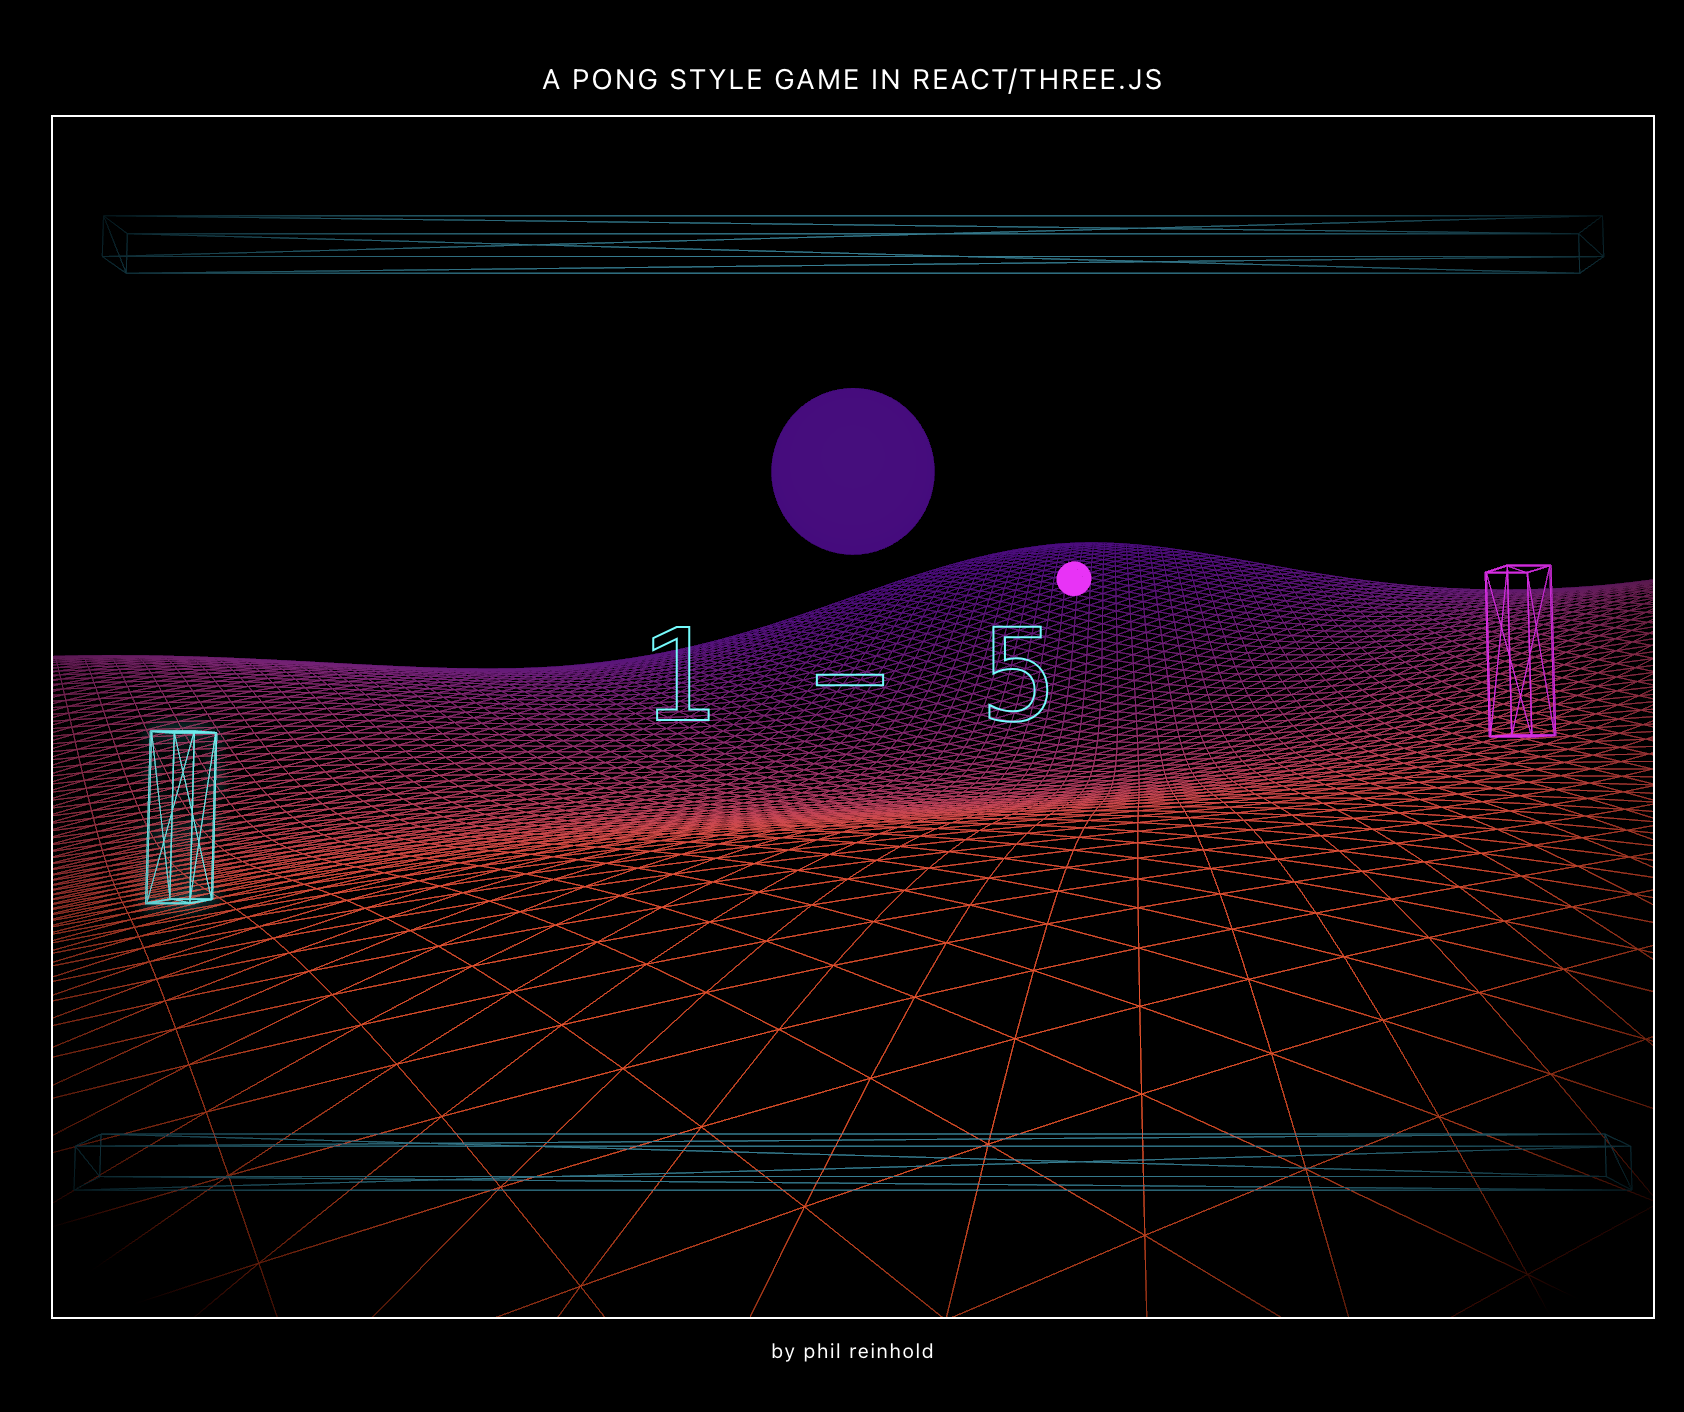
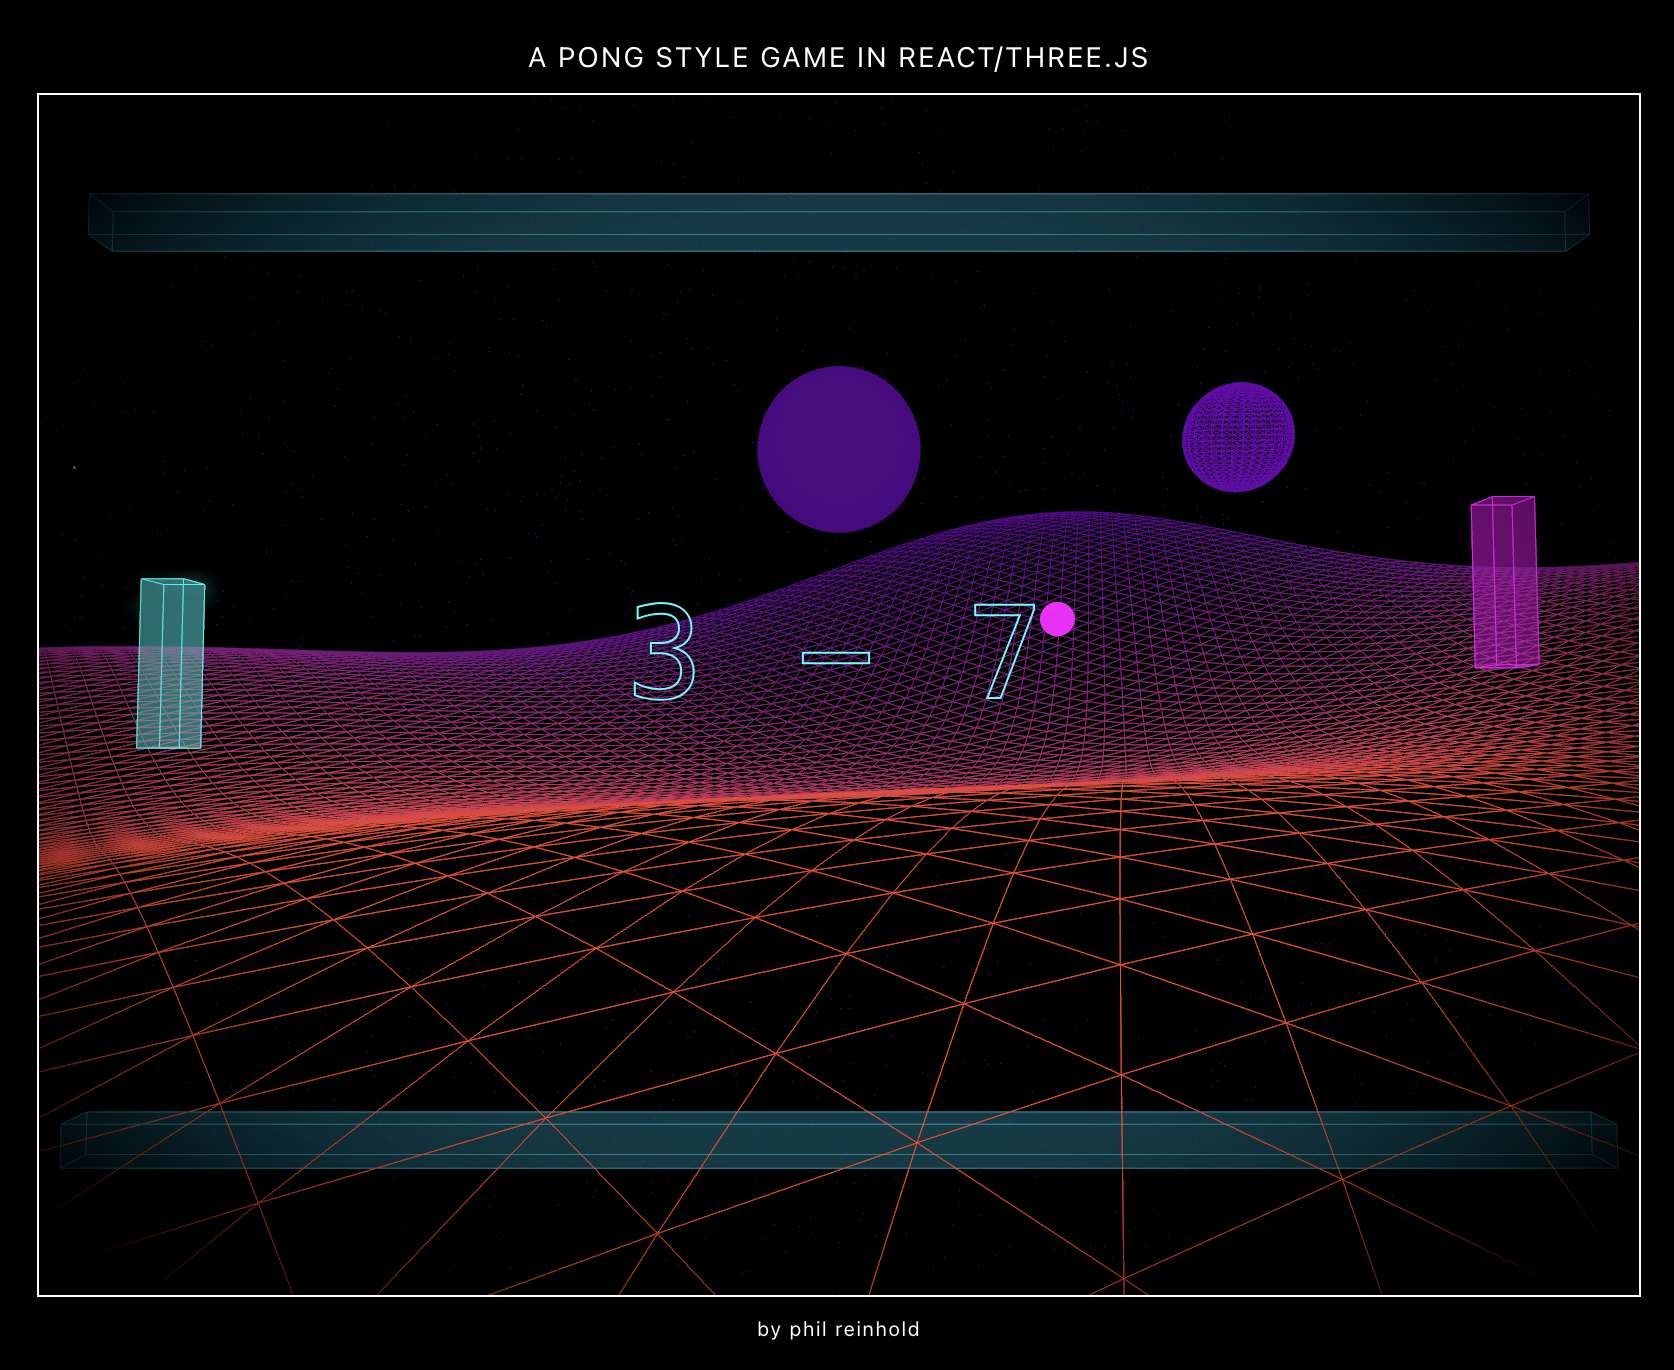
update

diff --git a/react-three-pong/src/App.js b/react-three-pong/src/App.js
@@ -4,16 +4,14 @@ import { PerspectiveCamera, KeyboardControls } from '@react-three/drei';
 import { EffectComposer, Bloom, Vignette } from '@react-three/postprocessing';
 import Paddle from './Paddle';
 import Ball from './Ball';
-import { Terrain, Sun, GameBoundaries, PurpleFog } from './Components';
+import { Terrain, Sun, GameBoundaries, PurpleFog, Stars, OrbitingPlanet } from './Components';
 import GameManager from './GameManager';
 
-// this function keeps the camera responsive to different screen sizes
 function ResponsiveCamera() {
   const { size, camera } = useThree();
   const aspect = size.width / size.height;
 
   useEffect(() => {
-    // u can adjust these values to change the game's aspect ratio
     const gameWidth = 19;
     const gameHeight = 10.5;
 
@@ -27,7 +25,6 @@ function ResponsiveCamera() {
   }, [size, camera, aspect]);
 
   useFrame(() => {
-    // adjust these values to change the camera position and angle
     camera.position.set(0, 2, 15);
     camera.rotation.set(-0.15, 0, 0);
     camera.updateProjectionMatrix();
@@ -37,10 +34,8 @@ function ResponsiveCamera() {
 }
 
 function App() {
-  // these keep track of the game score
   const [leftScore, setLeftScore] = useState(0);
   const [rightScore, setRightScore] = useState(0);
-  // this determines if the game is currently beeing played
   const [gameActive, setGameActive] = useState(false);
 
   const restartGame = () => {
@@ -49,22 +44,18 @@ function App() {
   };
 
   return (
-    // this sets up the keyboard controls. u can add more keys here if needed
     <KeyboardControls
       map={[
         { name: 'up', keys: ['ArrowUp', 'w', 'W'] },
         { name: 'down', keys: ['ArrowDown', 's', 'S'] },
       ]}
     >
-      {/* this div sets the size of the game. adjust width and height to change game size */}
       <div style={{ width: '800px', height: '600px', margin: '0 auto' }}>
         <Canvas>
-          {/* this sets the background color. change #000000 to any other color u want */}
           <color attach="background" args={['#000000']} />
           <PerspectiveCamera makeDefault position={[0, 2, 15]} />
           <ResponsiveCamera />
 
-          {/* adjust these values to change the lighting of the scene */}
           <ambientLight intensity={0.2} />
           <pointLight position={[10, 10, 10]} intensity={1} />
 
@@ -72,9 +63,14 @@ function App() {
           <Terrain />
           <Sun />
 
-          {/* this group contains all the game objects. adjust rotation to change game angle */}
+          <Stars />
+
+          {/* Multiple orbiting planets with varying distances and heights */}
+          <OrbitingPlanet radius={0} speed={0.8} size={6.5} color="#a200ff" distance={150} yOffset={10} />
+          <OrbitingPlanet radius={0} speed={0.2} size={8.5} color="#00d5ff" distance={200} yOffset={-10} />
+          <OrbitingPlanet radius={0} speed={0.6} size={3.8} color="#ff7b00" distance={180} yOffset={15} />
+
           <group rotation={[-0.2, 0, 0]}>
-            {/* adjust position and color of paddles here */}
             <Paddle position={[-8, 0, 0]} color="#00FFFF" name="leftPaddle" isPlayer={true} />
             <Paddle position={[8, 0, 0]} color="#FF00FF" name="rightPaddle" isPlayer={false} />
             {gameActive && (
@@ -91,7 +87,6 @@ function App() {
             setGameActive={setGameActive}
           />
 
-          {/* these are post-processing effects. adjust values to change the look */}
           <EffectComposer>
             <Bloom luminanceThreshold={0.5} luminanceSmoothing={0.9} height={300} />
             <Vignette eskil={false} offset={0.5} darkness={0.7} />

diff --git a/react-three-pong/src/Components.js b/react-three-pong/src/Components.js
@@ -31,13 +31,13 @@ export const Terrain = () => {
   useFrame(() => {
     const geometry = terrain.current.geometry;
     const positionAttribute = geometry.getAttribute('position');
-    const time = clock.getElapsedTime() * 0.2; // Slowed down the animation
+    const time = clock.getElapsedTime() * 0.2;
 
     for (let i = 0; i < positionAttribute.count; i++) {
       const x = positionAttribute.getX(i);
       const y = positionAttribute.getY(i);
       const baseHeight = generateHeight(x, y);
-      const dynamicFactor = Math.sin(time + x * 0.05 + y * 0.05) * 2; // Dynamic height factor
+      const dynamicFactor = Math.sin(time + x * 0.05 + y * 0.05) * 2;
       const z = baseHeight + dynamicFactor;
       
       positionAttribute.setZ(i, z);
@@ -69,12 +69,21 @@ export const GameBoundaries = () => {
     <>
       <mesh position={[0, 5.5, 0]}>
         <boxGeometry args={[18, 0.5, 0.5]} />
-        <meshBasicMaterial color="#008599" wireframe={true} />
+        <meshBasicMaterial color="#008599" transparent={true} opacity={0.2} />
       </mesh>
+      <lineSegments position={[0, 5.5, 0]}>
+        <edgesGeometry args={[new THREE.BoxGeometry(18, 0.5, 0.5)]} />
+        <lineBasicMaterial color="#008599" linewidth={2} />
+      </lineSegments>
+
       <mesh position={[0, -5.5, 0]}>
         <boxGeometry args={[18, 0.5, 0.5]} />
-        <meshBasicMaterial color="#008599" wireframe={true} />
+        <meshBasicMaterial color="#008599" transparent={true} opacity={0.2} />
       </mesh>
+      <lineSegments position={[0, -5.5, 0]}>
+        <edgesGeometry args={[new THREE.BoxGeometry(18, 0.5, 0.5)]} />
+        <lineBasicMaterial color="#008599" linewidth={2} />
+      </lineSegments>
     </>
   );
 };
@@ -90,4 +99,47 @@ export const PurpleFog = () => {
   }, [scene]);
 
   return null;
+};
+
+export const Stars = () => {
+  const starsRef = useRef();
+
+  useEffect(() => {
+    const starGeometry = new THREE.BufferGeometry();
+    const starMaterial = new THREE.PointsMaterial({ color: '#FFFFFF', size: 0.5 });
+
+    const starVertices = [];
+    for (let i = 0; i < 20000; i++) {  // Increased the number of stars
+      const x = THREE.MathUtils.randFloatSpread(4000);  // More spread out
+      const y = THREE.MathUtils.randFloatSpread(2000);  // Slightly vertical spread
+      const z = THREE.MathUtils.randFloatSpread(4000);
+      starVertices.push(x, y, z);
+    }
+
+    starGeometry.setAttribute('position', new THREE.Float32BufferAttribute(starVertices, 3));
+    starsRef.current.geometry = starGeometry;
+    starsRef.current.material = starMaterial;
+  }, []);
+
+  return <points ref={starsRef} />;
+};
+
+export const OrbitingPlanet = ({ radius, speed, size, color, distance, yOffset }) => {
+  const planetRef = useRef();
+
+  useFrame(({ clock }) => {
+    const time = clock.getElapsedTime() * speed;
+    planetRef.current.position.set(
+      Math.cos(time) * distance,
+      radius + yOffset,  // Adding an offset to vary the height of the planets
+      Math.sin(time) * distance
+    );
+  });
+
+  return (
+    <mesh ref={planetRef}>
+      <sphereGeometry args={[size, 32, 32]} />
+      <meshBasicMaterial color={color} wireframe={true} />  {/* Wireframe planet */}
+    </mesh>
+  );
 };

diff --git a/react-three-pong/src/Paddle.js b/react-three-pong/src/Paddle.js
@@ -8,7 +8,10 @@ const Paddle = ({ position, color, name, isPlayer }) => {
   const wireframeRef = useRef();
   const [, getKeys] = useKeyboardControls();
 
-  const wireframeGeometry = useMemo(() => new THREE.EdgesGeometry(new THREE.BoxGeometry(0.52, 2.02, 0.52)), []);
+  const wireframeGeometry = useMemo(
+    () => new THREE.EdgesGeometry(new THREE.BoxGeometry(0.5, 2, 0.5)),
+    []
+  );
 
   useFrame((state) => {
     if (!ref.current) return;
@@ -42,12 +45,15 @@ const Paddle = ({ position, color, name, isPlayer }) => {
 
   return (
     <group>
+      {/* Transparent filling */}
       <mesh ref={ref} position={position} name={name}>
         <boxGeometry args={[0.5, 2, 0.5]} />
-        <meshBasicMaterial color={color} wireframe={true} />
+        <meshBasicMaterial color={color} transparent={true} opacity={0.2} />
       </mesh>
+
+      {/* Distinct wireframe outlines */}
       <lineSegments ref={wireframeRef} geometry={wireframeGeometry} position={position}>
-        <lineBasicMaterial color={color} linewidth={4} />
+        <lineBasicMaterial color={color} linewidth={2} />
       </lineSegments>
     </group>
   );
